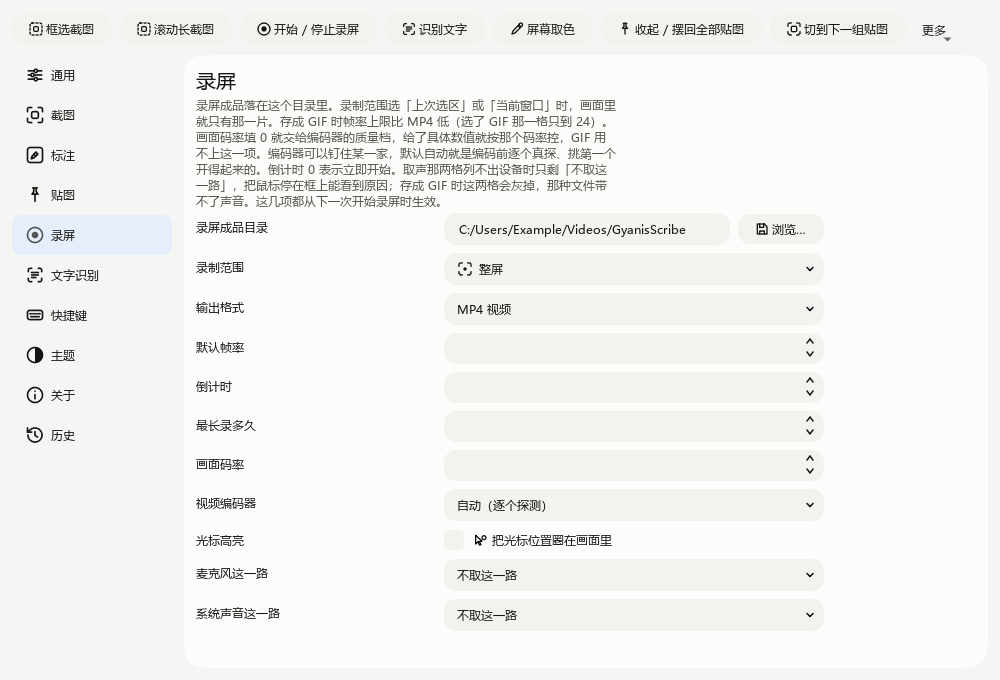
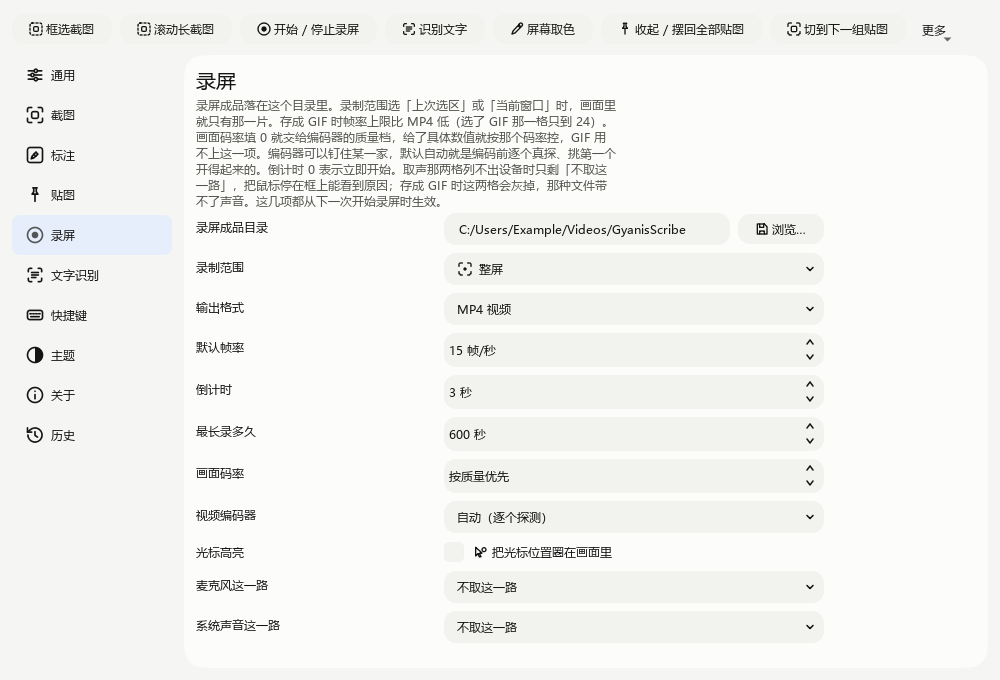
docs(Gui): 刷新连续曲率圆角截图
UiShotTool 在 87e63a2 上重跑 docs/images。通用、截图、贴图、录屏四页的数字框重新显示取值
（200 条、30 天、0 秒、12 像素、2 像素、16 像素、100 %、12 像素、3 秒、600 秒），其余九张与
上一版逐字节相同，说明 9a 的连续曲率外观没有随这次修复漂移。

样式指南同步改掉被这次修复作废的说法：透明边框占位只落在按钮、行编辑与下拉框上，数字框改成
抬高内容最小高（浅深 28、高对比度 34），总高仍按档落在 32 与 38。

diff --git a/docs/UiStyleGuide.md b/docs/UiStyleGuide.md
@@ -41,7 +41,7 @@ QWidget 子类要吃样式表的背景必须 `setAttribute(Qt::WA_StyledBackgrou
   滑块槽与微调框上下按钮的悬停底也取它。
   卡片的圆角按 `Card` 档（20px、平滑度 0.80，见 §1.6）、内边距 `kSpacingMedium`，底色差已经足够分出「这是一块阅读面」。
 - 无容器边框：`#pageCard`、按钮、工具按钮、输入框（含快捷键框与标注行内编辑器）、列表、文本区一律没有可见描边。
-  浅色与深色给按钮与输入类保留一条 1px 透明边框占位，让控件总高固定为按钮 30、输入类 32；
+  浅色与深色给按钮与输入类保留一条 1px 透明边框占位（数字框不带占位，改为抬高内容最小高），让控件总高固定为按钮 30、输入类 32；
   换色只换底，不换尺寸。高对比度档的 2px 描边是契约，不按这一条归一化：
   按钮 32、输入类 34、数字框 38，由 `ThemeManagerFixture.ControlHeightsStayPinnedPerTheme` 按档钉住。
 - 浮层微边缘：压在其它内容上的面板在自绘时保留一圈 `borderStrong` 边缘（浅深 1px、高对比度 2px），
@@ -115,10 +115,13 @@ QSS 只留颜色、排版与透明边框占位：
 
 - 三份样式表都没有 `border-radius`，也不给形状类控件写可见的 `background-color`/`border-color`；
   文字色、选区色、下拉箭头资源、内边距、`min-width`/`min-height`/`margin`/`spacing` 仍留在样式表。
-- 浅色与深色的按钮与输入类保留 `1px solid transparent`、高对比度档保留 `2px solid transparent` 的边框占位，
-  控件总高按档不变（按钮 30、输入 32、高对比度档按钮 32 / 输入 34、数字框 38，由
+- 浅色与深色的按钮、行编辑与下拉框保留 `1px solid transparent`、高对比度档保留 `2px solid transparent` 的
+  边框占位，控件总高按档不变（按钮 30、输入 32、高对比度档按钮 32 / 输入 34，由
   `ThemeManagerFixture.ControlHeightsStayPinnedPerTheme` 钉住）。
-- 输入类的透明底与透明边只落在带 `squircle` 属性的自绘类及其内部行编辑上；原生对话框里的
+- 数字框不带边框占位：Qt 6.12 的 `QStyleSheetStyle` 在关掉原生按钮后会按微调框自身的边框与内边距裁内部
+  行编辑，把行编辑收成 1px 宽，数值文本还在却画不出来。它的内容最小高因此补到 28（高对比度档 34），
+  叠上微调框上下各 2px 的自有框，总高仍落在 32 与 38；内部行编辑的规则只给文字色、透明底与左右 12px 缩进。
+- 输入类的透明底与透明边只落在带 `squircle` 属性的自绘类上，微调框的内部行编辑只继承透明底；原生对话框里的
   `QLineEdit`/`QComboBox`/`QSpinBox` 保持系统外观。`QToolTip` 规则不能写任何 `border` 声明，
   否则样式引擎会自己画完提示面板，`SquircleStyle` 收不到 `PE_PanelTipLabel`。
 - 菜单与下拉弹层的顶层窗关闭自动填底并开透明背景；菜单面板由 `Gui::Menu` 自绘，`SquircleStyle`
